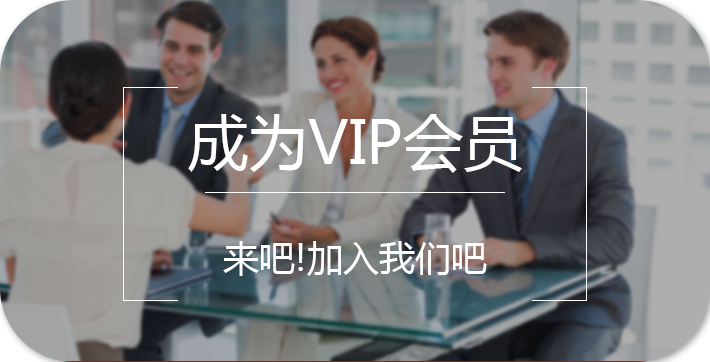
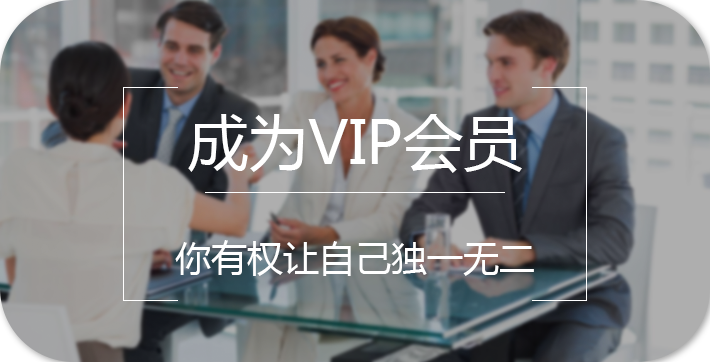
会员中心的成为VIP图片修改 公益管理导航页面调整 订当天全天房不再灰掉入住时间

Changed region(s): [[0.2479, 0.6685, 0.7437, 0.7597]]

diff --git a/js/pages/cms/nav.html b/js/pages/cms/nav.html
@@ -1,82 +1,84 @@
 <style>
-    .row {
-        display: flex;
-        justify-content: space-between;
-        align-items: center;;
-        padding: 0 20px;
-        background-color: #fff;
-        font-size: 13px;
-        border-bottom: 1px solid #ddd;
-        margin: 10px 0;
-        height: 70px;
-    }
-    .row:active {
-        background-color: #ddd;
-    }
-    .item-img {
-        width: 22px;
-        height: 22px;
-        margin-left: 9px;
-    }
-    .arrow {
-        height: 15px;
-        margin: 3px;
-    }
-    .item-text {
-        flex-grow: 1;
-    }
+.row {
+    display: flex;
+    justify-content: space-between;
+    align-items: center;
+    ;
+    padding: 0 20px;
+    background-color: #fff;
+    font-size: 13px;
+    border-bottom: 1px solid #ddd;
+    margin: 10px 0;
+    height: 70px;
+}
+
+.row:active {
+    background-color: #ddd;
+}
+
+.item-img {
+    width: 22px;
+    height: 22px;
+    margin-left: 9px;
+}
+
+.arrow {
+    height: 15px;
+    margin: 3px;
+}
+
+.item-text {
+    flex-grow: 1;
+}
 </style>
-
-
 <section ms-controller="foundation">
-    <div class="detail-back1" onclick="javascript: location.href='editFund.html'">
+    <div class="bs-bg-white bs-text-black" style="padding: 15px;" onclick="javascript: location.href='editFund.html'">
         <div class="detail-title bs-text-small">
-            <div class="bs-text-normal" style="margin-top: ">
-                <img class="intro-img-love" style="height: 24px; width: 24px; border-radius: 50%;" ms-attr-src="data.img">
-                <span style="position: relative; top: -6px;"> {{data.name}}</span>
+            <div class="bs-text-normal">
+                <img class="intro-img-love" onError="javascript:src='../img/commonweal/love.png'" style="height: 24px; width: 24px;" ms-attr-src="urlAPINet + data.logoUrl">
+                <span style="position: relative; top: -6px;"> {{data.cnName}}</span>
+                <img style="height: 18px; width: 18px;position: relative;left: 10px;top: -2px;" src="../img/icon/edit_white_red.png">
             </div>
-            <div class="bs-text-x-smaller detail-foundation" style="min-height: 100px;" >
-                {{data.des}}
+            <div class="bs-text-x-smaller">{{data.enName}}</div>
+            <div class="bs-text-bolder bs-text-x-smaller">{{data.brief}}</div>
+            <div class="bs-text-x-smaller detail-foundation">
+                {{data.introduction}}
             </div>
         </div>
     </div>
-
     <div class="row" ms-click="goDonation">
         <div style="width: 100px;">
             捐款总金额
         </div>
         <div class="item-text">
-            <span class="bs-text-red">{{data.amount}}</span> 元
+            <span class="bs-text-red">{{accountData.totalDonateAmount}}</span> 元
         </div>
         <img src="../img/icon/right-arrow.svg" class="arrow">
     </div>
-
     <div class="row" ms-click="goAccount">
         <div style="width: 100px;">
             账户余额
         </div>
         <div class="item-text">
-            <span class="bs-text-red">{{data.account}}</span> 元
+            <span class="bs-text-red">{{accountData.cashAmount}}</span> 元
         </div>
         <img src="../img/icon/right-arrow.svg" class="arrow">
     </div>
-
     <div class="row" ms-click="goFavoreeList">
         <div style="width: 100px;">
             受益学生
         </div>
         <div class="item-text">
-            <span class="bs-text-red">{{data.numberStudent}}</span> 个
+            <span class="bs-text-red">{{accountData.numberStudent}}</span> 个
         </div>
         <img src="../img/icon/right-arrow.svg" class="arrow">
     </div>
-
-    <div class="row"  ms-click="goSubList">
+    <div class="row" ms-click="goSubList">
         <div style="width: 100px;">
             子账户
         </div>
         <div class="item-text">
-            <span class="bs-text-red">{{data.numberSub}}</span> 个
+            <span class="bs-text-red">{{accountData.numberAccount}}</span> 个
         </div>
         <img src="../img/icon/right-arrow.svg" class="arrow">
     </div>

diff --git a/js/pages/cms/nav.js b/js/pages/cms/nav.js
@@ -1,13 +1,17 @@
 var vmFoundation = avalon.define({
     $id: 'foundation',
     data: {
-        name: '杜氏助学公益基金',
-        des: '基金创始于2012年，从最初发起人个人资助特贫困大学生完成学业开始，迅速发展成苏北地区具有较高影响力的助学公益组织，秉承基金创始人杜玉莲女士“让每个孩子只少能够拥有受教育的机会”之理念，坚持资助必须有始有终，不为名利，只为能够保留孩子心中那一丝对未来的期望！',
-        img: '../img/commonweal/love.png',
-        amount: 0,
-        account: 0,
+        cnName: '',
+        enName: '',
+        brief: '',
+        introduction: '',
+        logoUrl: ''
+    },
+    accountData: {
+        totalDonateAmount: 0,
+        cashAmount: 0,
         numberStudent: 0,
-        numberSub: 0
+        numberAccount: 0
     },
     fid: 0,
     getFid: function() {
@@ -16,20 +20,14 @@ var vmFoundation = avalon.define({
             successCallback: function(json) {
                 if (json.status == 1) {
                     vmFoundation.fid = json.data.id;
-                    vmFoundation.data.name = json.data.cnName;
-                    vmFoundation.data.des = json.data.introduction;
-                    vmFoundation.data.img = urlAPINet + json.data.logoUrl;;
-
+                    vmFoundation.data = json.data;
+                    
                     ajaxJsonp({
                         url: urls.getFoundationAccount,
                         data: { fid: vmFoundation.fid },
                         successCallback: function(json) {
                             if (json.status == 1) {
-                                vmFoundation.data.account = json.data.cashAmount;
-                                vmFoundation.data.numberStudent = json.data.numberStudent;
-                                vmFoundation.data.amount = json.data.totalDonateAmount;
-                                vmFoundation.data.numberSub = json.data.numberAccount;
-
+                                vmFoundation.accountData = json.data;
                             } else {
                                 mui.alert(json.message);
                             }

diff --git a/js/pages/room/vmodel.js b/js/pages/room/vmodel.js
@@ -632,13 +632,14 @@ function room_init() {
 // @hour: 入住时间，几点
 function disableCheckinTime(startIndex, hour) {
     //入住时间选今天，要灰掉小于当前时间的表盘
-    if (vmRoom.todayIndex == startIndex) {
-        if (hour * 2 < getHourIndex() && hour < vmRoom.roomNightDiscount[3].startTime) {
-            return true;
-        } else {
-            return false;
-        }
-    } else if (bookDateList && bookDateList.outIndex.indexOf(startIndex) > -1) {
+    // if (vmRoom.todayIndex == startIndex) {
+    //     if (hour * 2 < getHourIndex() && hour < vmRoom.roomNightDiscount[3].startTime) {
+    //         return true;
+    //     } else {
+    //         return false;
+    //     }
+    // } else if
+    if (bookDateList && bookDateList.outIndex.indexOf(startIndex) > -1) {
         //14点以前的入住时段要灰掉
         //设置默认表盘
         if (hour < 14) {
